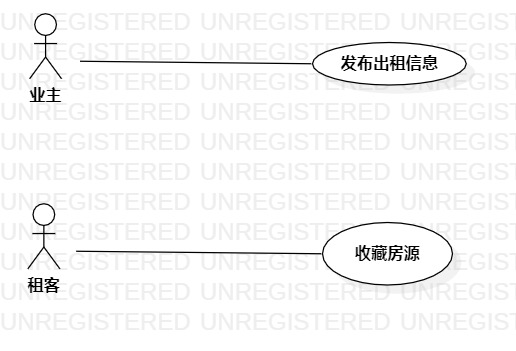
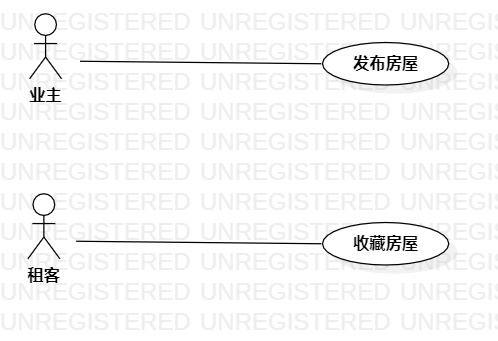
#4 #5 #581 实验四类建模和实验五高级类建模(第二次修改) 同时修改了实验二和实验三

diff --git a/students/1714080902409/Lab2.md b/students/1714080902409/Lab2.md
@@ -8,8 +8,8 @@
 - 编写用例规约
 ## 3.实验步骤
 - 确定功能：  
-（1）业主发布出租信息  
-（2）租客收藏房源
+（1）业主发布房屋  
+（2）租客收藏房屋
 - 画出参与者：业主和租客
 - 画出用例
 - 建立参与者和用例的联系
@@ -20,15 +20,15 @@
 
 # 用例规约的编写
 
-## 表1：发布出租信息用例规约  
+## 表1：发布房屋用例规约  
 
 用例编号  | UC01 | 备注  
 -|:-|-  
-用例名称  | 发布出租信息  |   
+用例名称  | 发布房屋  |   
 前置条件  |  业主已经登录进入房屋出租系统    |    
 后置条件  |      |    
-基本流程  | 1. 业主点击发布信息按钮 |    
-~| 2. 系统显示房屋信息发布界面 |   
+基本流程  | 1. 业主点击发布按钮 |    
+~| 2. 系统显示房屋发布界面 |   
 ~| 3. 业主填写房屋的价格，地址，租期，外观等信息并且留下自己的联系电话  |   
 ~| 4. 业主点击发布按钮|  
 ~| 5. 系统检查业主的必填内容，必填内容不为空| 
@@ -40,16 +40,16 @@
 
 
 
-## 表2：收藏房源用例规约  
+## 表2：收藏房屋用例规约  
 
 用例编号  | UC02 | 备注  
 -|:-|:--  
-用例名称  | 收藏房源  |   
+用例名称  | 收藏房屋  |   
 前置条件  |   租客已经登录进入房屋出租系统   |    
 后置条件  |      |    
 基本流程  | 1. 租客点击收藏按钮 |    
 ~| 2. 系统显示收藏页面 |   
-~| 3. 租客选择感兴趣的房源，点击完成按钮  |
-~| 4. 系统查询租客已收藏的房源，检查不存在编号相同的房源，更新租客收藏的房源信息  |  
+~| 3. 租客选择感兴趣的房屋，点击完成按钮  |
+~| 4. 系统查询租客已收藏的房屋，检查不存在编号相同的房屋，更新租客收藏的房屋  |  
 ~| 5. 系统提示“收藏成功”  | 
-扩展流程  | 4.1 系统查询租客已收藏的房源，发现存在编号相同的房源，提示“此房源已收藏”  | 
+扩展流程  | 4.1 系统查询租客已收藏的房屋，发现存在编号相同的房屋，提示“此房屋已收藏”  | 

diff --git a/students/1714080902409/Lab3.md b/students/1714080902409/Lab3.md
@@ -12,11 +12,11 @@
 - 添加Final节点
 
 ## 4.实验结果
-发布出租信息的活动图 
-![发布出租信息的活动图](https://raw.githubusercontent.com/Sakuraxia/uml-modeling-2020/master/students/1714080902409/发布出租信息的活动图.jpg)  
+发布房屋的活动图 
+![发布房屋的活动图](发布房屋.jpg)  
 
 
 
-收藏房源的活动图 
-![收藏房源的活动图 ](https://raw.githubusercontent.com/Sakuraxia/uml-modeling-2020/master/students/1714080902409/收藏房源.jpg)  
+收藏房屋的活动图 
+![收藏房源的活动图 ](收藏房屋.jpg)  
 

diff --git a/students/1714080902409/Lab4.md b/students/1714080902409/Lab4.md
@@ -18,8 +18,8 @@
 - Control：也即是控制器，Service
 - 有多少个用例就画多少个类图
 ## 5.实验结果
-![用例图](./发布出租信息类图.jpg)    
-发布出租信息类图  
+![用例图](./发布房屋类图.jpg)    
+发布房屋类图  
 
-![用例图](./收藏房源类图.jpg)  
-收藏房源类图
+![用例图](./收藏房屋类图.jpg)  
+收藏房屋类图
